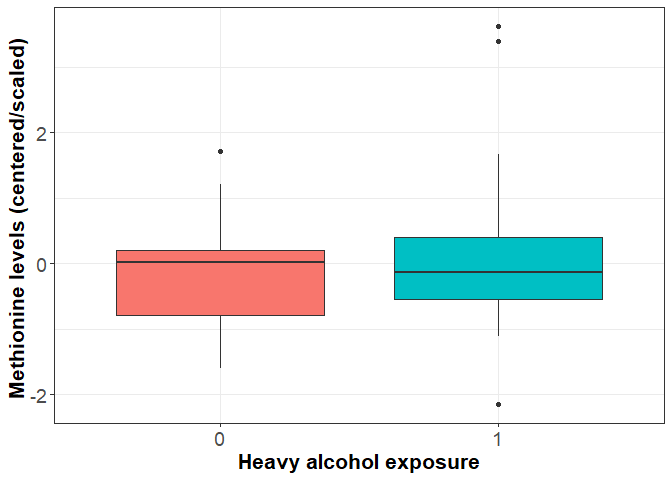
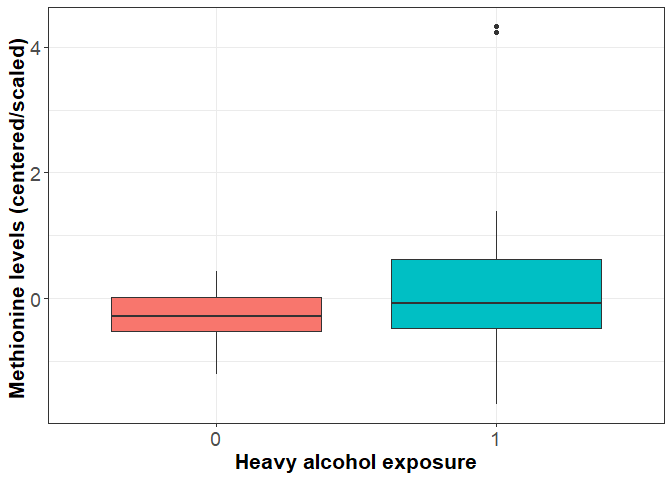
updated Nutrients_Capetown file to switch boxplot from methione to choline by alcohol status

diff --git a/Nutrients_CapeTown.md b/Nutrients_CapeTown.md
@@ -13,7 +13,7 @@ library(tidyverse)
 ## load dataset
 
 ``` r
-Data<-read.csv("Data/cape_ town_fasd_nutrient_data_08032020.csv")
+Data<-read.csv("Data/cape_town_fasd_nutrient_data_08032020.csv")
 ```
 
 ## Summary table to nutrient/weight distributions
@@ -139,18 +139,18 @@ CT_hist
 #range in gestational age spans 31.57 weeks to 44.57 weeks > should these two individuals be excluded from the analysis?  Maybe conduct sensitivity analysis restricted to term infants
 ```
 
-## Boxplot showing difference in methionine levels and placental weight among heavily exposed and unexposed individuals
+## Boxplot showing difference in choline levels and placental weight among heavily exposed and unexposed individuals
 
 ``` r
 #Methionine by alcohol exposure
-met_alc<-ggplot(Data,aes(x=factor(heavyexpYN),y=Methionine,fill=factor(heavyexpYN)))+
+chol_alc<-ggplot(Data,aes(x=factor(heavyexpYN),y=Choline,fill=factor(heavyexpYN)))+
   geom_boxplot()+
   theme_bw()+
   labs(x="Heavy alcohol exposure",y="Methionine levels (centered/scaled) ")+
   theme(axis.title=element_text(face="bold",size=16),
         axis.text=element_text(size=14),
         legend.position = "none")
-met_alc
+chol_alc
 ```
 
 ![](Nutrients_CapeTown_files/figure-gfm/boxplot-1.png)<!-- -->
